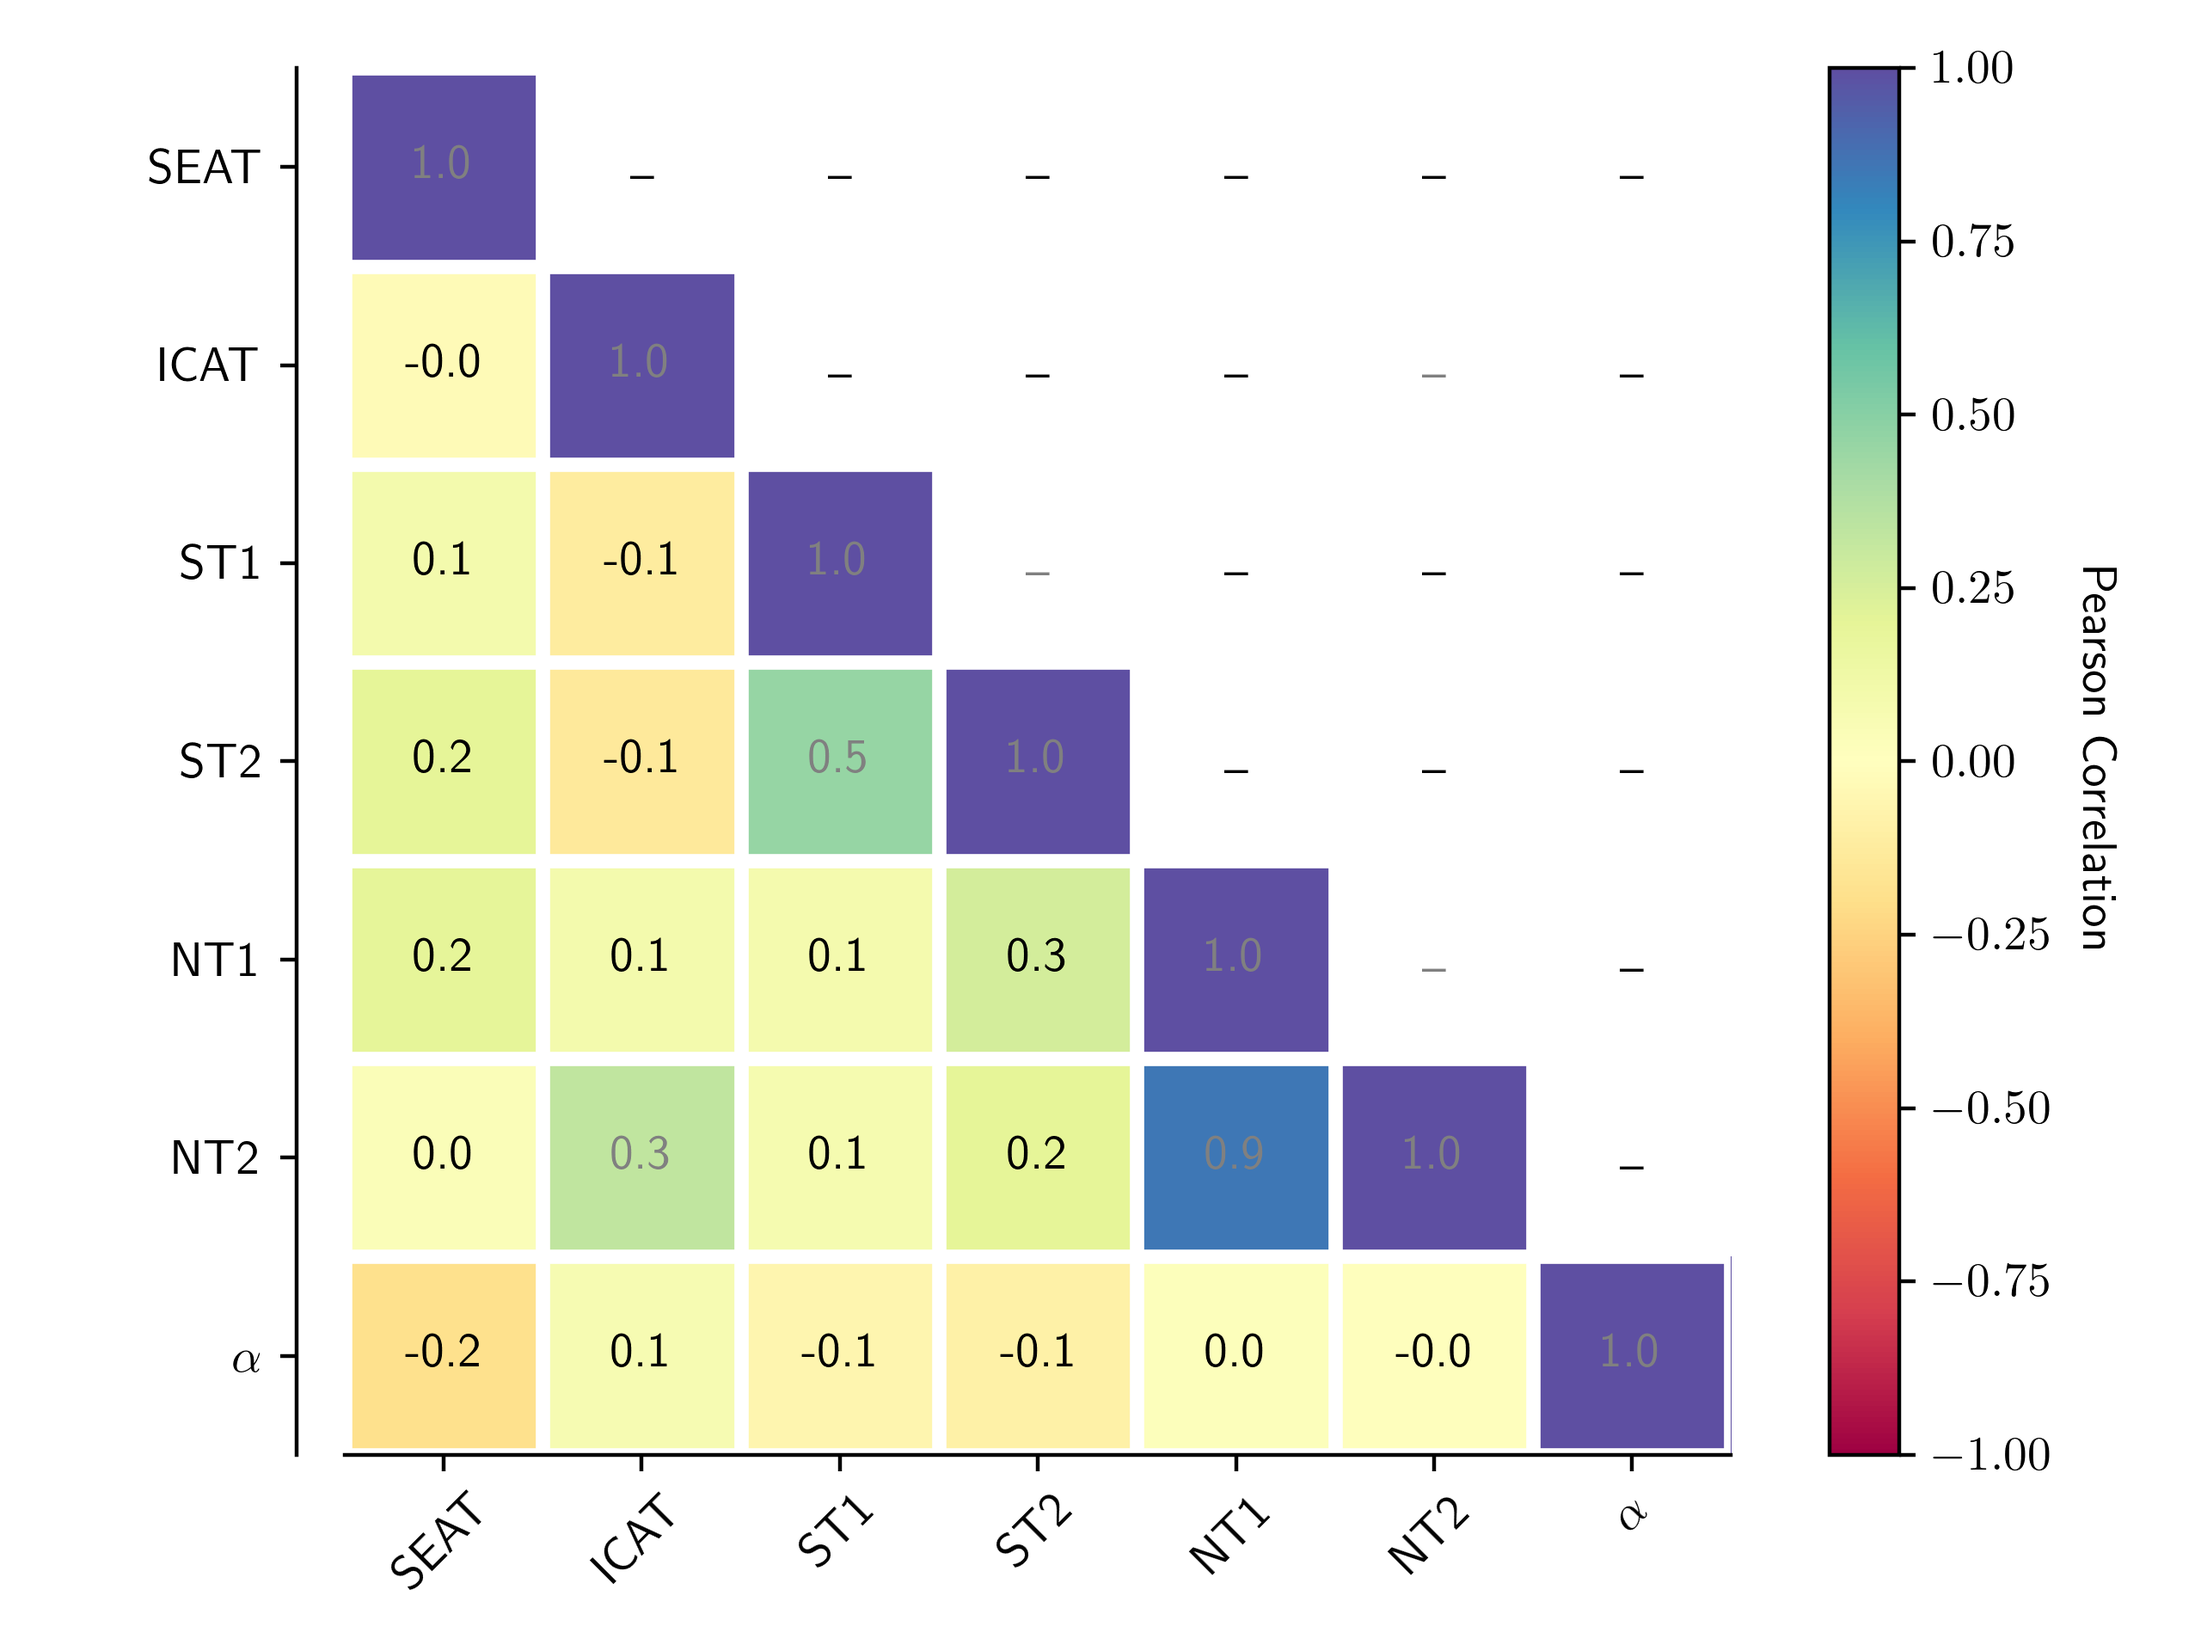
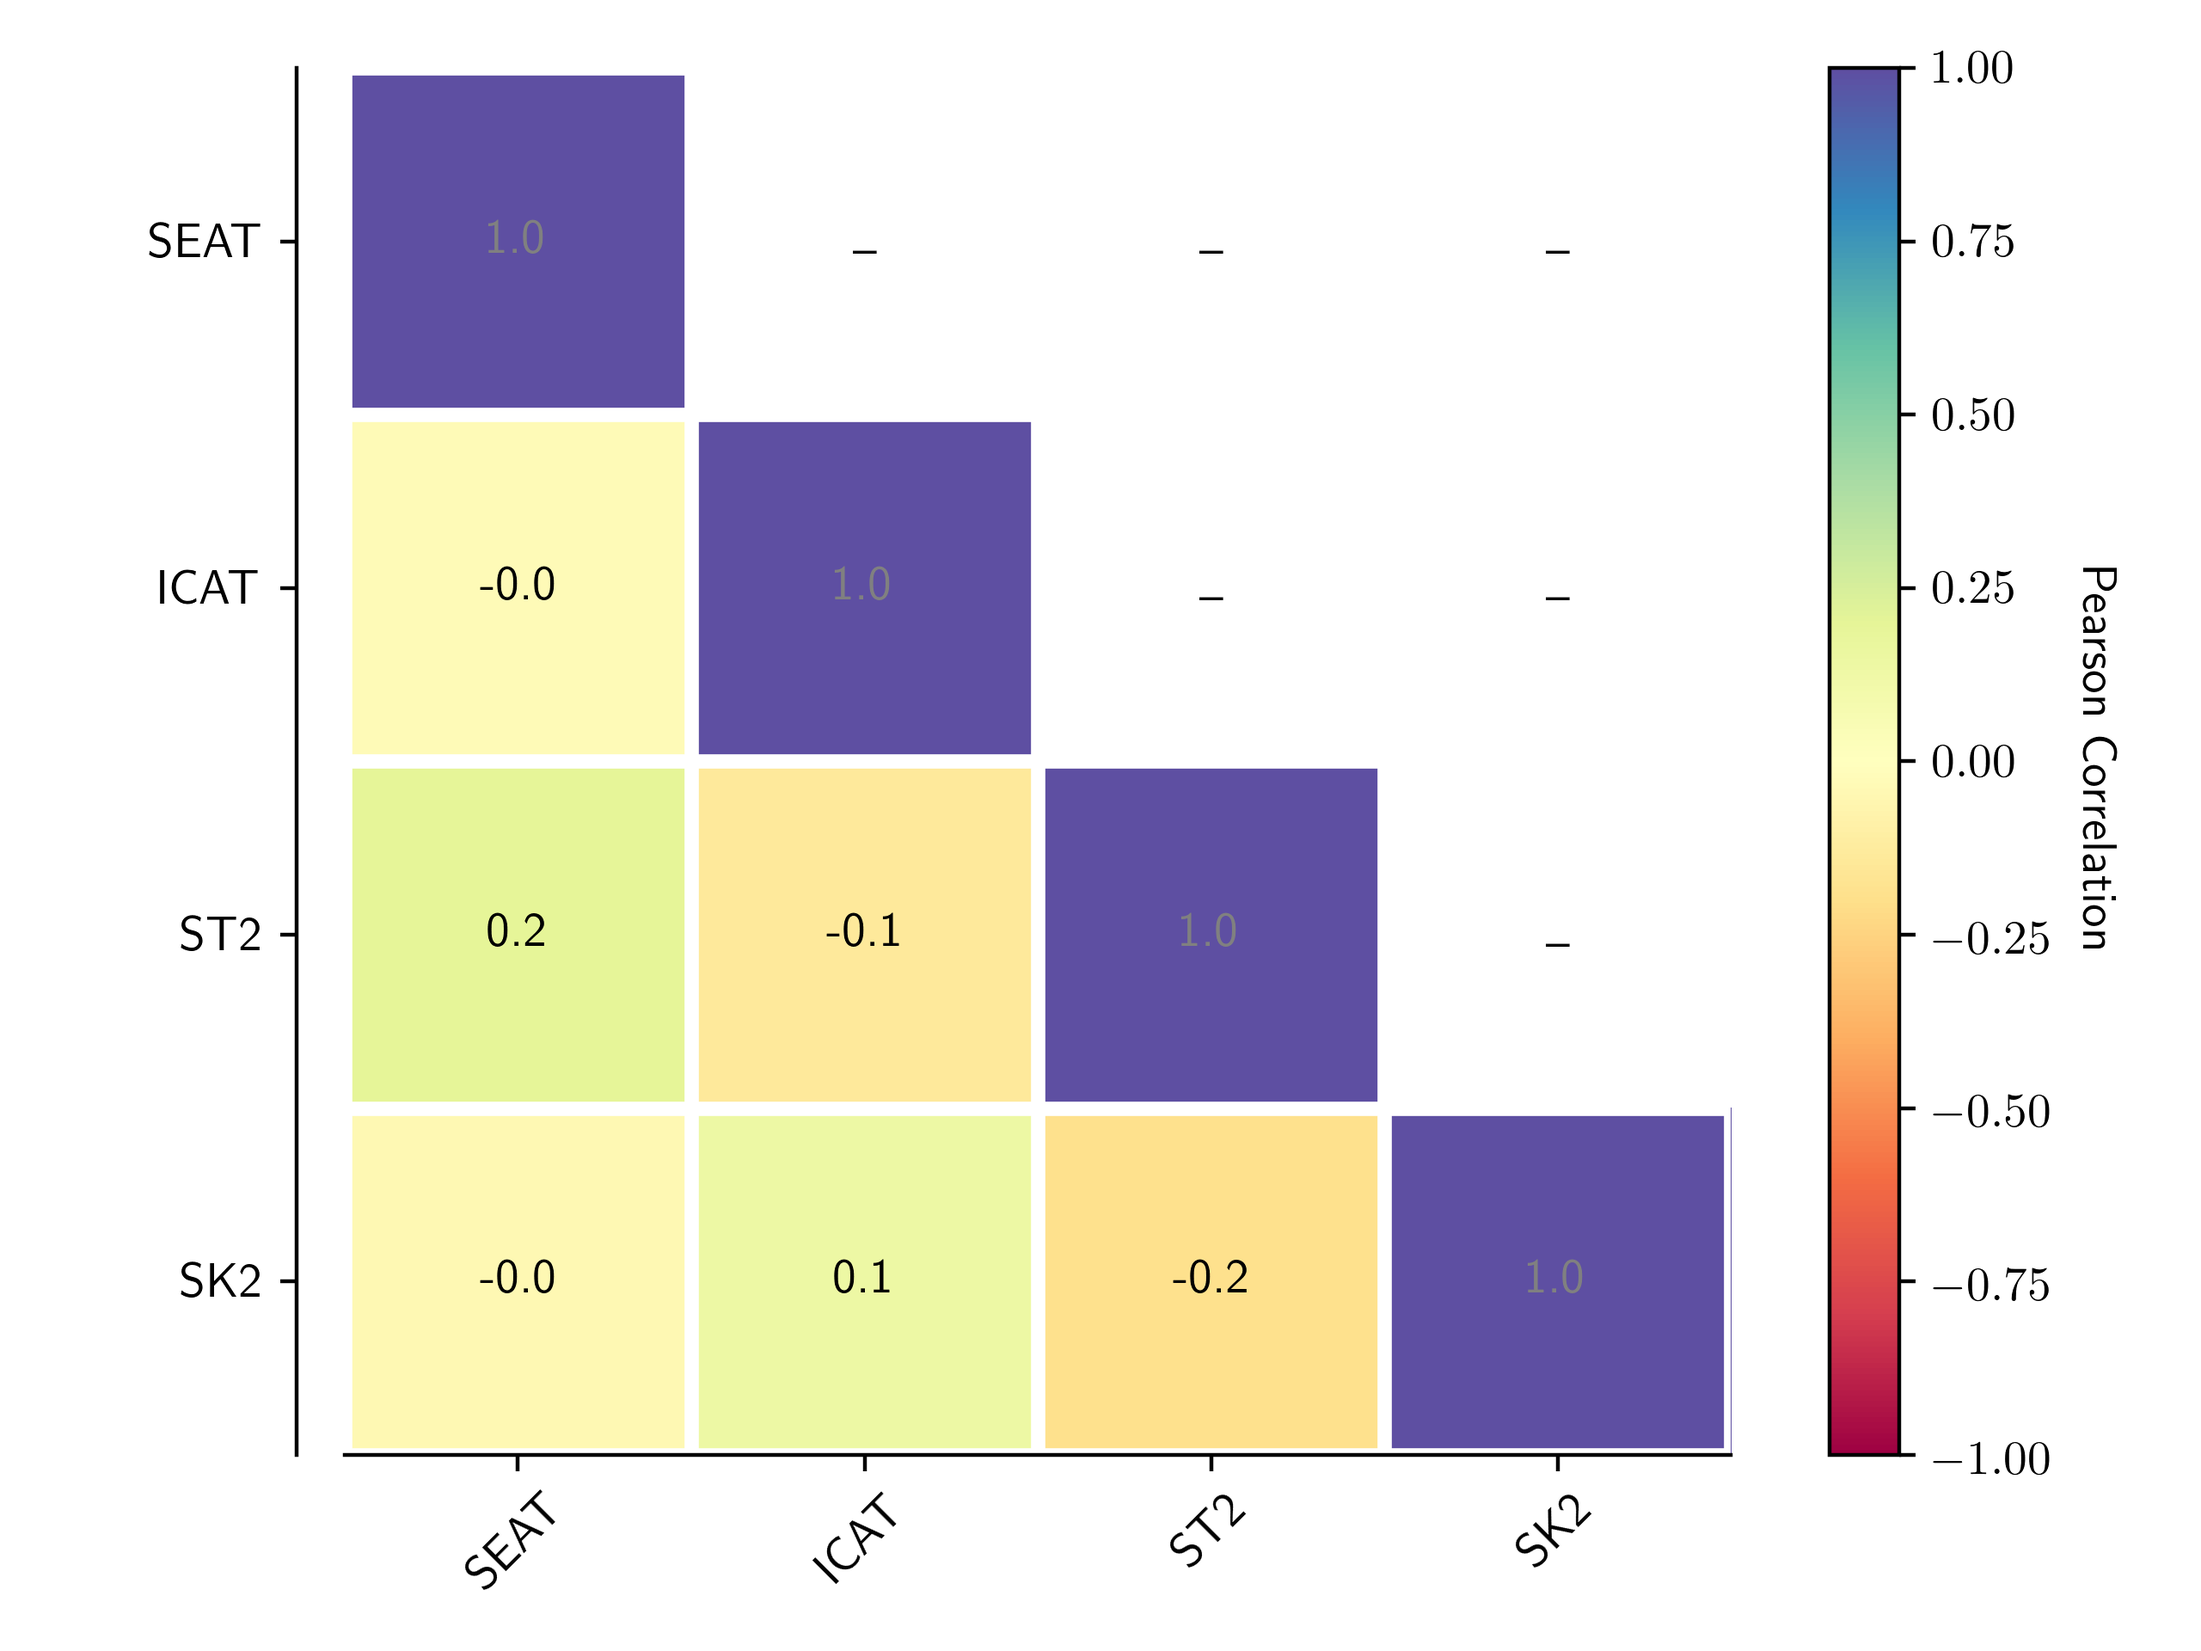
fix metrics

diff --git a/analizer.py b/analizer.py
@@ -204,23 +204,23 @@ Stero = [
         # "SS Score",
 ] 
 SteroSkrewWino = [
-        "stero T1",
+        # "stero T1",
         "stero T2",
         # "skew T1",
-        # "skew T2",
+        "skew T2",
 ]
 
 EmbeddingWino = [
         # "dist T1",
         # "dist_neutral T1",
-        "neutral_score T1",
+        # "neutral_score T1",
         # "dist T2",
         # "dist_neutral T2",
-        "neutral_score T2",
+        # "neutral_score T2",
 ]
 WW = [
     # "log_norm",
-    "alpha",
+    # "alpha",
     # "alpha_weighted",
     # "log_alpha_norm",
     # "log_spectral_norm",

diff --git a/README.md b/README.md
@@ -34,49 +34,49 @@ Check the Parallel Coordinates [HERE](https://andreamad8.github.io/BIAS_METRIC_R
 ## Results 
 
 ***Summury***
-| Model                   |        SEAT |    ICAT |      ST1 |      ST2 |       NT1 |      NT2 |   $\alpha$ |
-|-------------------------|-------------|---------|----------|----------|-----------|----------|------------|
-| bert-large-A            |   0.212605  | 40.2582 | 0        | 0.30182  | 0.578283  | 0.494949 |    4.31179 |
-| albert-base-v2-A        |   0.954114  | 42.4767 | 0        | 0.625153 | 0.247475  | 0.161616 |    5.35072 |
-| albert-xxlarge-v2-A     |   0.964114  | 40.3126 | 0        | 0.227338 | 0.522727  | 0.489899 |    9.00281 |
-| bert-A                  |   0.206581  | 30.6621 | 0        | 0.522885 | 0.171717  | 0.204545 |    4.05595 |
-| distilbert-base-A       |   0.597806  | 24.8182 | 0        | 0.510859 | 0.767677  | 0.641414 |    4.23127 |
-| bigbird-roberta-base-A  |   0.32823   | 48.3687 | 0.309168 | 0.283724 | 0.472222  | 0.507576 |    4.67274 |
-| bigbird-roberta-large-A |   0.52427   | 49.9503 | 0        | 0.293637 | 0.666667  | 0.669192 |    4.60873 |
-| electra-base-A          |  -0.33938   | 59.2715 | 0        | 0.528422 | 0.184343  | 0.401515 |    4.61282 |
-| electra-large-A         |   0.0846175 | 45.757  | 0        | 0.293637 | 0.525253  | 0.502525 |    4.57602 |
-| electra-small-A         |   0.434103  | 43.1014 | 0        | 0.245059 | 0.426768  | 0.565657 |    4.89688 |
-| mobilebert-A            |   0.320741  | 45.2265 | 0        | 0.558182 | 0.388889  | 0.340909 |    6.6069  |
-| deberta-base-A          |   0.537033  | 54.1031 | 0.30847  | 0.714529 | 0.782828  | 0.823232 |    3.29192 |
-| deberta-large-A         |   0.39596   | 56.9055 | 0        | 0.31334  | 0.636364  | 0.676768 |    3.54856 |
-| mpnet-base-A            |   0.0790948 | 37.6795 | 0        | 0.909021 | 0.558081  | 0.583333 |    5.03652 |
-| roberta-base-A          |   0.577402  | 39.1982 | 0        | 0.961242 | 0.883838  | 0.780303 |    4.37836 |
-| roberta-large-A         |   0.43048   | 48.4027 | 0        | 0.399622 | 0.540404  | 0.666667 |    4.27942 |
-| squeezebert-A           |   0.423841  | 27.5023 | 0        | 0.564603 | 0.0631313 | 0.121212 |    1.6226  |
-| xlm-roberta-base-A      |   0.299444  | 50.7881 | 0        | 0.6445   | 0.474747  | 0.277778 |    4.4435  |
-| bigbird-roberta-base    |   0.120121  | 33.5551 | 1.87972  | 0.256421 | 0.333333  | 0.361111 |    4.66235 |
-| bigbird-roberta-large   |   0.246759  | 39.7349 | 0.850865 | 2.33223  | 0.585859  | 0.659091 |    4.61276 |
-| conv-bert-base          |   0.346541  | 61.2557 | 0        | 1.10654  | 0.770202  | 0.830808 |    4.87079 |
-| conv-bert-medium-small  |   0.0553646 | 53.1988 | 0        | 0.504415 | 0.555556  | 0.790404 |    5.48689 |
-| conv-bert-small         |   0.274105  | 53.8287 | 0        | 0.295723 | 0.338384  | 0.343434 |    5.14023 |
-| deberta-base            |   0.503209  | 53.3127 | 0.294503 | 0.424754 | 0.636364  | 0.775253 |    3.29402 |
-| electra-small           |  -0.152407  | 50.1935 | 0        | 0.499372 | 0.542929  | 0.717172 |    4.85704 |
-| electra-base            |   0.396143  | 46.6014 | 0        | 0.586728 | 0.719697  | 0.752525 |    4.52969 |
-| electra-large           |   0.338071  | 64.0768 | 0        | 0.566235 | 0.739899  | 0.646465 |    4.6576  |
-| deberta-large           |  -0.151416  | 58.652  | 0.634049 | 0.767562 | 0.671717  | 0.739899 |    3.54834 |
-| deberta-xlarge          |  -0.119582  | 51.1988 | 1.01572  | 0.236414 | 0.661616  | 0.737374 |    3.48598 |
-| mpnet-base              |   0.242279  | 35.2778 | 0        | 0.715055 | 0.590909  | 0.45202  |    5.05202 |
-| mobilebert              |  -0.170479  | 33.9413 | 0        | 0.788274 | 0.512626  | 0.522727 |    6.57335 |
-| squeezebert             |   0.344389  | 32.3521 | 0        | 0.829707 | 0.340909  | 0.277778 |    1.6226  |
-| bert-large              |   0.260135  | 36.0097 | 0        | 0.833716 | 0.487374  | 0.457071 |    4.20567 |
-| roberta-large           |   0.440252  | 34.604  | 2.78896  | 2.29857  | 0.747475  | 0.694444 |    4.29148 |
-| albert-base-v2          |   0.708201  | 33.9084 | 0        | 0.764229 | 0.765152  | 0.767677 |    4.11182 |
-| xlm-roberta-large       |  -0.440905  | 23.8859 | 0        | 0.291523 | 0.520202  | 0.492424 |    4.49264 |
-| bert-base               |   0.678823  | 37.9824 | 0        | 0.79911  | 0.727273  | 0.507576 |    4.0507  |
-| roberta-base            |   0.768783  | 33.4985 | 2.26141  | 0.82703  | 0.575758  | 0.5      |    4.85783 |
-| albert-xxlarge-v2       |   0.140031  | 37.8482 | 0        | 0.665338 | 0.679293  | 0.65404  |    4.37851 |
-| xlm-roberta-base        |  -0.313573  | 19.8099 | 0        | 0.419313 | 0.719697  | 0.573232 |    4.37837 |
-| distilbert-base         |   0.763151  | 31.0765 | 0        | 0.889996 | 0.792929  | 0.787879 |    4.25338 |
+| Model                   |        SEAT |    ICAT |      ST2 |       SK2 |
+|-------------------------|-------------|---------|----------|-----------|
+| bert-large-A            |   0.212605  | 40.2582 | 0.30182  | 51.5653   |
+| albert-base-v2-A        |   0.954114  | 42.4767 | 0.625153 | 18.3567   |
+| albert-xxlarge-v2-A     |   0.964114  | 40.3126 | 0.227338 | 66.6663   |
+| bert-A                  |   0.206581  | 30.6621 | 0.522885 |  2.17629  |
+| distilbert-base-A       |   0.597806  | 24.8182 | 0.510859 |  0.255103 |
+| bigbird-roberta-base-A  |   0.32823   | 48.3687 | 0.283724 | 19.2028   |
+| bigbird-roberta-large-A |   0.52427   | 49.9503 | 0.293637 | 53.3816   |
+| electra-base-A          |  -0.33938   | 59.2715 | 0.528422 |  3.20158  |
+| electra-large-A         |   0.0846175 | 45.757  | 0.293637 | 53.3816   |
+| electra-small-A         |   0.434103  | 43.1014 | 0.245059 | 63.344    |
+| mobilebert-A            |   0.320741  | 45.2265 | 0.558182 |  8.37135  |
+| deberta-base-A          |   0.537033  | 54.1031 | 0.714529 | 59.4253   |
+| deberta-large-A         |   0.39596   | 56.9055 | 0.31334  | 48.9353   |
+| mpnet-base-A            |   0.0790948 | 37.6795 | 0.909021 | 48.5118   |
+| roberta-base-A          |   0.577402  | 39.1982 | 0.961242 | 17.5118   |
+| roberta-large-A         |   0.43048   | 48.4027 | 0.399622 | 44.3825   |
+| squeezebert-A           |   0.423841  | 27.5023 | 0.564603 |  9.41863  |
+| xlm-roberta-base-A      |   0.299444  | 50.7881 | 0.6445   | 20.9219   |
+| bigbird-roberta-base    |   0.120121  | 33.5551 | 0.256421 |  2.94378  |
+| bigbird-roberta-large   |   0.246759  | 39.7349 | 2.33223  |  4.87686  |
+| conv-bert-base          |   0.346541  | 61.2557 | 1.10654  | 64.4379   |
+| conv-bert-medium-small  |   0.0553646 | 53.1988 | 0.504415 |  1.40565  |
+| conv-bert-small         |   0.274105  | 53.8287 | 0.295723 | 52.9226   |
+| deberta-base            |   0.503209  | 53.3127 | 0.424754 | 20.0563   |
+| electra-small           |  -0.152407  | 50.1935 | 0.499372 |  2.42984  |
+| electra-base            |   0.396143  | 46.6014 | 0.586728 | 12.8677   |
+| electra-large           |   0.338071  | 64.0768 | 0.566235 |  9.68137  |
+| deberta-large           |  -0.151416  | 58.652  | 0.767562 | 35.0887   |
+| deberta-xlarge          |  -0.119582  | 51.1988 | 0.236414 | 64.9835   |
+| mpnet-base              |   0.242279  | 35.2778 | 0.715055 | 29.4229   |
+| mobilebert              |  -0.170479  | 33.9413 | 0.788274 | 37.2037   |
+| squeezebert             |   0.344389  | 32.3521 | 0.829707 | 41.2643   |
+| bert-large              |   0.260135  | 36.0097 | 0.833716 | 41.6462   |
+| roberta-large           |   0.440252  | 34.604  | 2.29857  | 24.7641   |
+| albert-base-v2          |   0.708201  | 33.9084 | 0.764229 | 34.7425   |
+| xlm-roberta-large       |  -0.440905  | 23.8859 | 0.291523 | 53.844    |
+| bert-base               |   0.678823  | 37.9824 | 0.79911  | 38.2867   |
+| roberta-base            |   0.768783  | 33.4985 | 0.82703  | 10.0769   |
+| albert-xxlarge-v2       |   0.140031  | 37.8482 | 0.665338 | 23.5604   |
+| xlm-roberta-base        |  -0.313573  | 19.8099 | 0.419313 | 21.4985   |
+| distilbert-base         |   0.763151  | 31.0765 | 0.889996 | 46.8286   |
 
 
 ## Metric class
